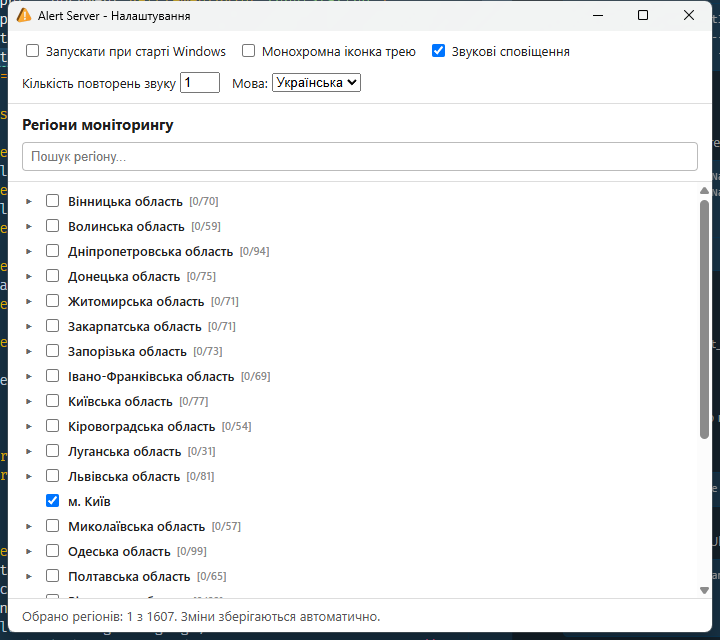
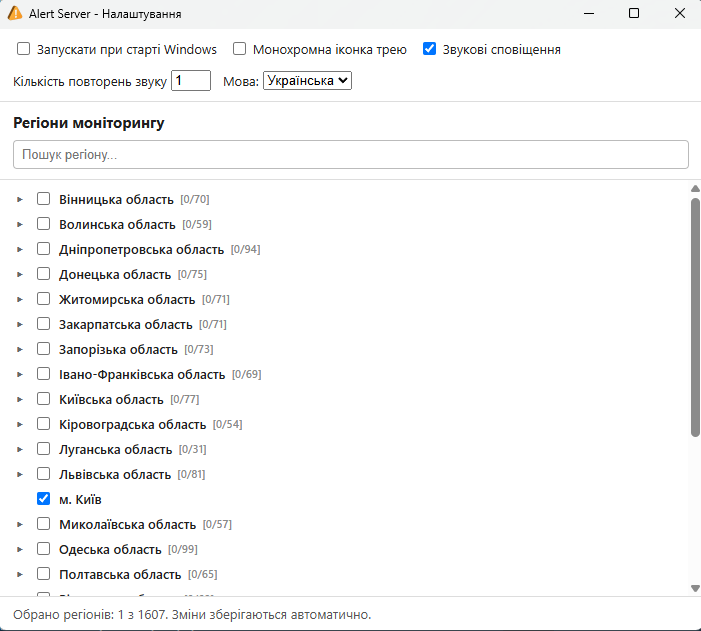
Trim proxy implementation detail from README intro, update license year
The Cloudflare Worker proxy is an implementation detail end users don't
need in the opening description - it's already covered by the
architecture diagram and alert-proxy/README.md for anyone maintaining
that piece.

Changed region(s): [[0.0, 0.0, 1.0, 1.0], [0.8088, 0.0, 0.8388, 0.0301]]

diff --git a/README-UA.md b/README-UA.md
@@ -4,8 +4,6 @@
 
 Трей-застосунок для Windows на базі Electron, який з заданою періодичністю отримує дані про тривоги з [alerts.in.ua](https://alerts.in.ua/) і показує їх через Центр сповіщень Windows для обраних вами регіонів України.
 
-Застосунок звертається до alerts.in.ua через невеликий проксі на Cloudflare Worker ([`alert-proxy/`](alert-proxy/)), який ховає токен API і кешує відповіді на межі мережі, тож будь-яка кількість встановлених копій безпечно ділиться одним токеном.
-
 ## Архітектура
 
 ![архітектура](docs/images/architecture-uk.svg)
@@ -42,4 +40,4 @@
 
 ## Ліцензія
 
-[Copyright (c) 2024 Serhii I. Myshko](https://github.com/sergeiown/Alert_Server/blob/main/LICENSE) - Ліцензія MIT
+[Copyright (c) 2024-2026 Serhii I. Myshko](https://github.com/sergeiown/Alert_Server/blob/main/LICENSE) - Ліцензія MIT

diff --git a/README.md b/README.md
@@ -4,8 +4,6 @@
 
 A Windows tray application built with Electron that receives alert data from [alerts.in.ua](https://alerts.in.ua/) at a specified frequency and displays it through the Windows Notification Center for the regions of Ukraine you choose to monitor.
 
-The app talks to alerts.in.ua through a small Cloudflare Worker proxy ([`alert-proxy/`](alert-proxy/)) that hides the API token and caches responses at the edge, so any number of installs share one token safely.
-
 ## Architecture
 
 ![architecture](docs/images/architecture-en.svg)
@@ -44,4 +42,4 @@ If you have suggestions or want to propose improvements to the project, please o
 
 ## License
 
-[Copyright (c) 2024 Serhii I. Myshko](https://github.com/sergeiown/Alert_Server/blob/main/LICENSE) - MIT License
+[Copyright (c) 2024-2026 Serhii I. Myshko](https://github.com/sergeiown/Alert_Server/blob/main/LICENSE) - MIT License